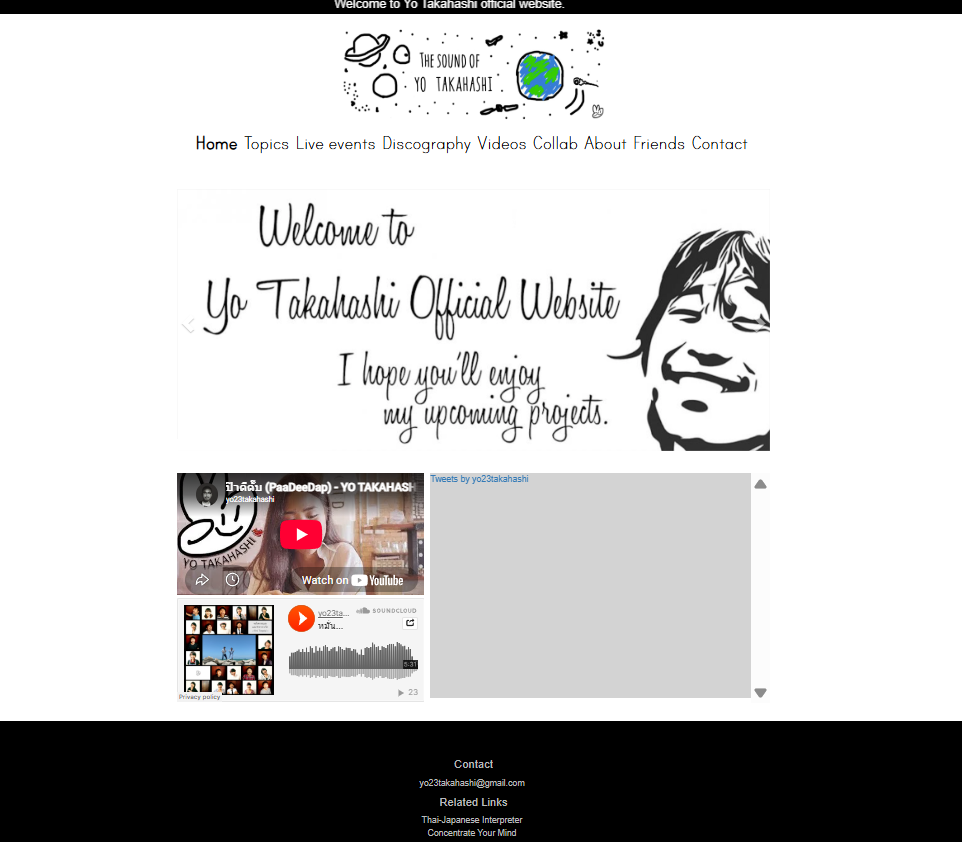
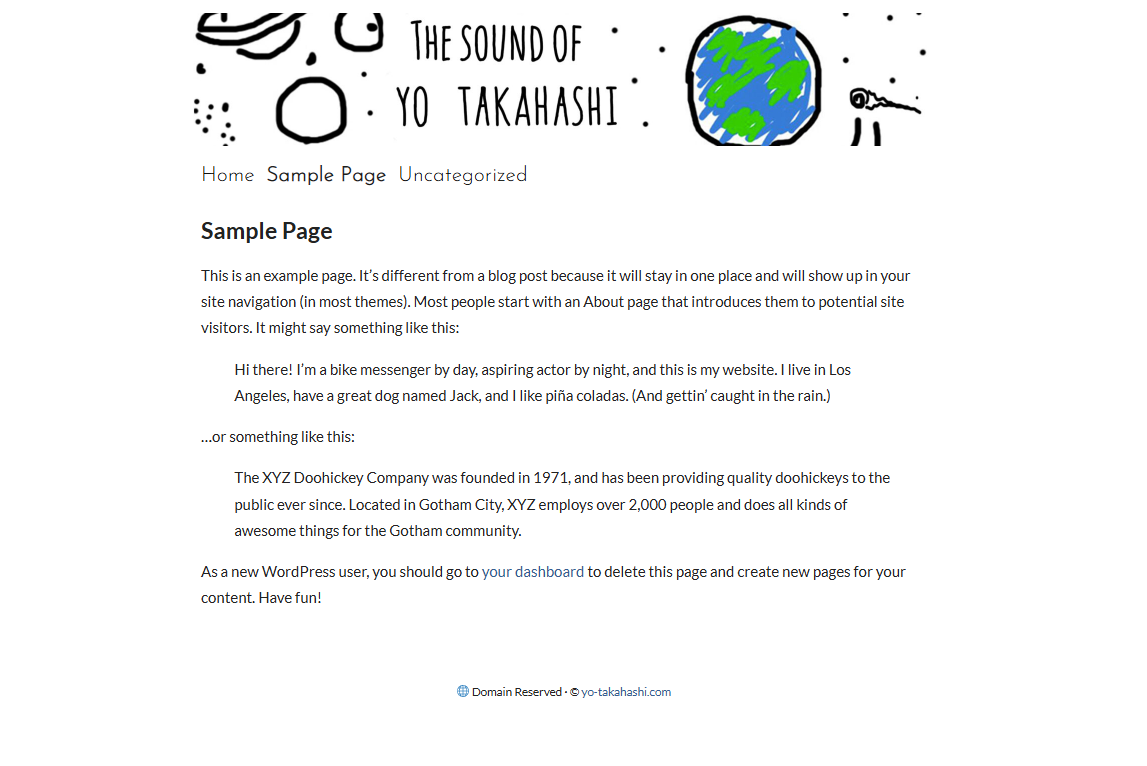
style: refine overall design

diff --git a/style.css b/style.css
@@ -2,7 +2,7 @@
 Theme Name: Yo Takahashi
 Theme URI: https://yo-takahashi.com/
 Author: Yo Takahashi
-Description: A custom WordPress theme for Yo Takahashi's personal website.
+Description: A custom WordPress theme for Yo Takahashi's reserved domain landing page.
 Version: 1.0.0
 Requires at least: 6.0
 Requires PHP: 8.0
@@ -34,6 +34,7 @@ body {
 
 #wrapper {
   width: 100%;
+  margin-top: 30px;
 }
 
 .site-header,
@@ -42,10 +43,6 @@ body {
   width: 100%;
   max-width: 900px;
   margin-inline: auto;
-}
-
-.site-header {
-  margin-top: 30px;
 }
 
 .site-main {
@@ -57,7 +54,6 @@ body {
 .site-navigation {
   width: 100%;
   margin: 15px 0 25px;
-  padding-inline: 15px;
 }
 
 .site-footer {
@@ -374,7 +370,8 @@ body.menu-open #wrapper {
 --------------------------------------------------------------*/
 
 @media (max-width: 767.98px) {
-  .site-header {
+  
+  #wrapper {
     margin-top: 0;
   }
 

diff --git a/footer.php b/footer.php
@@ -6,8 +6,9 @@
             <p>
                 <span aria-hidden="true">🌐</span>
                 Domain Reserved &middot;
+                &copy;
                 <a href="<?php echo esc_url(home_url('/')); ?>">
-                    &copy; <?php echo esc_html(wp_parse_url(home_url('/'), PHP_URL_HOST)); ?>
+                    <?php echo esc_html(wp_parse_url(home_url('/'), PHP_URL_HOST)); ?>
                 </a>
             </p>
         </div><!-- .site-footer-copyright -->
